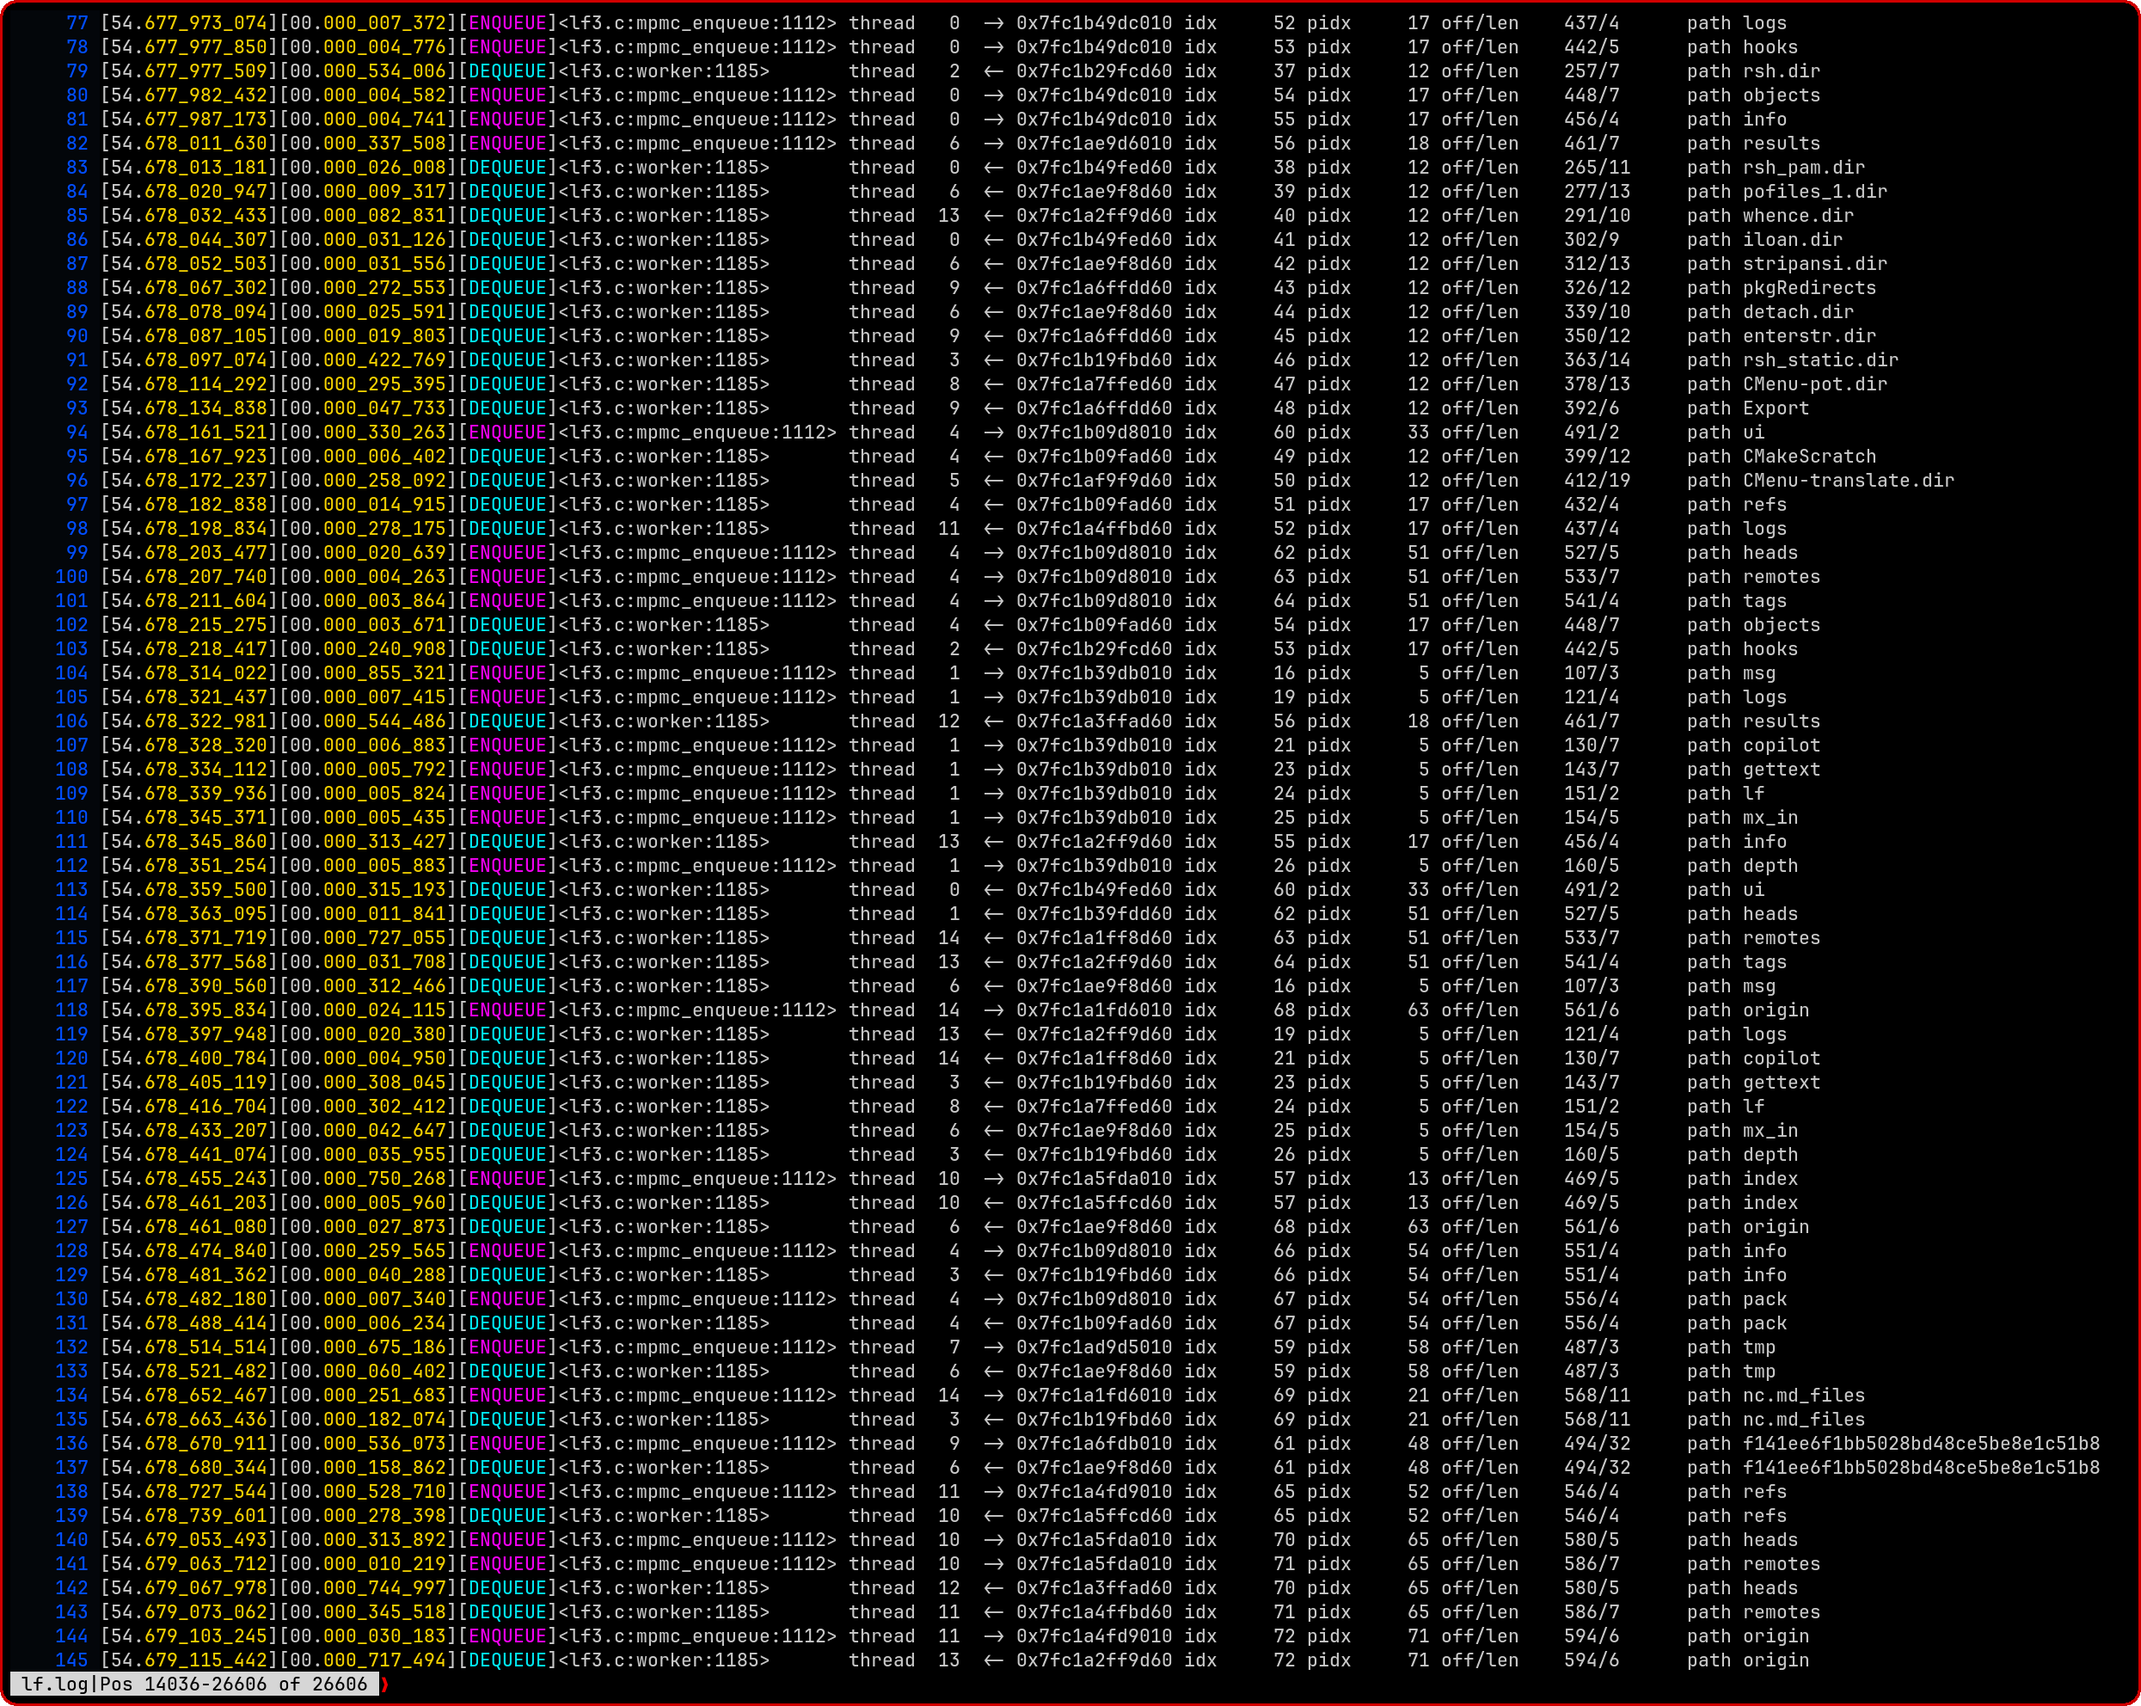
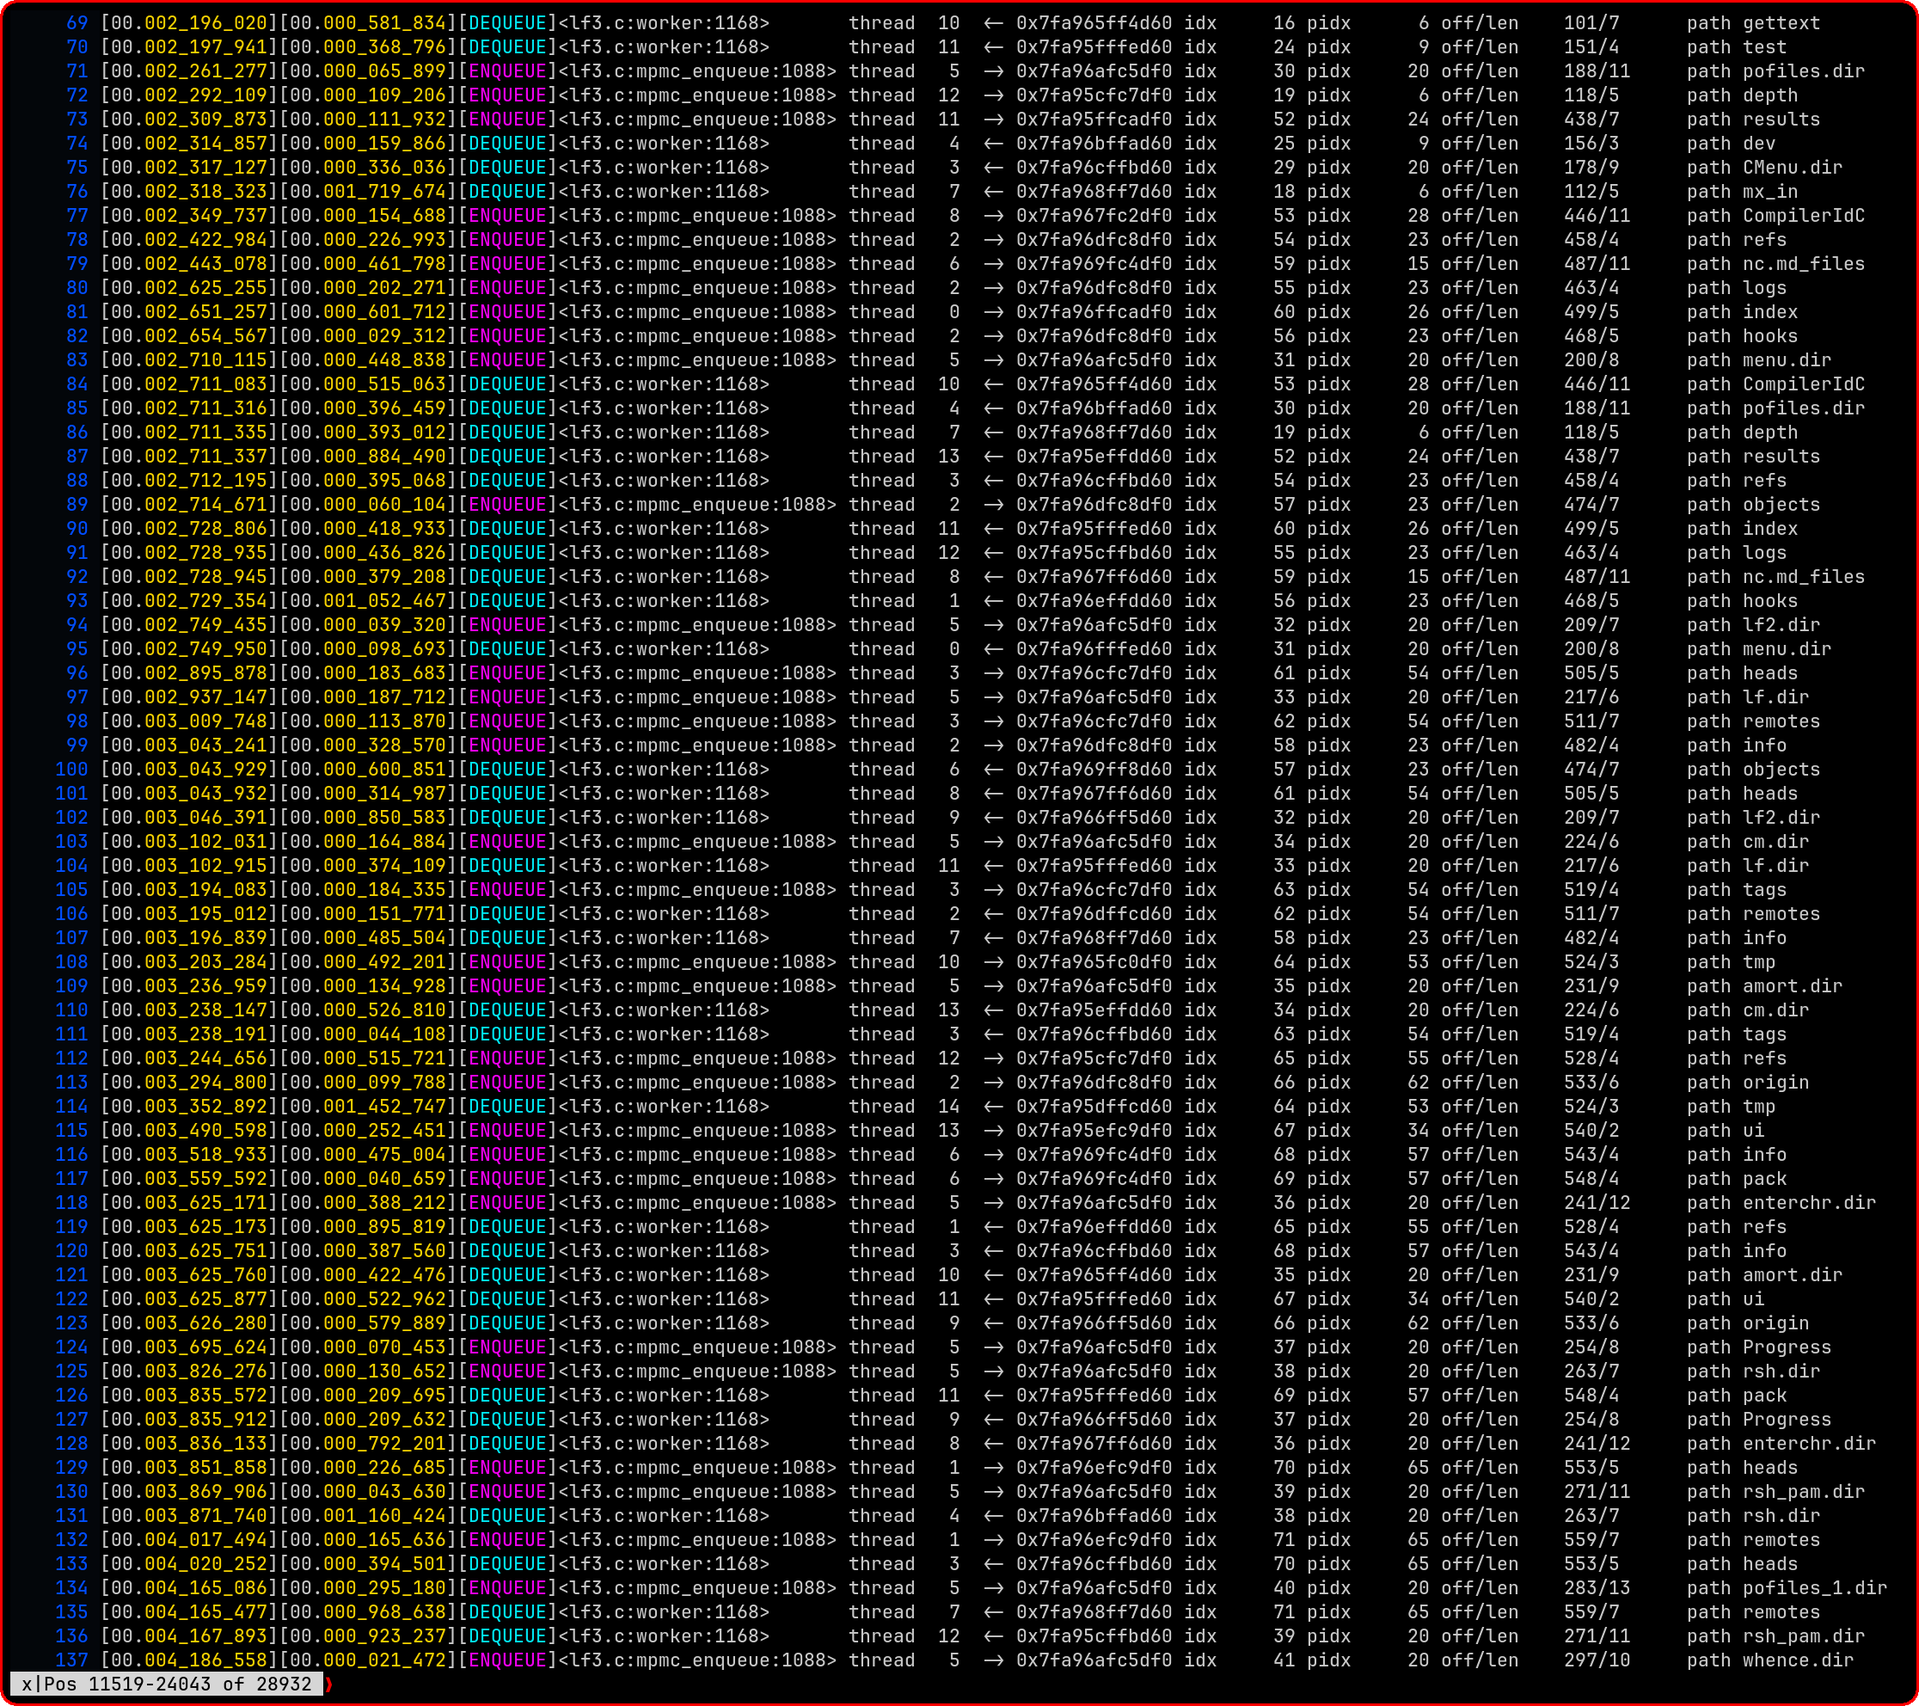
FIX: #1040 lf3: There was an issue with the consistency of timestamps in the lf3 log that resulted from sharing a context between threads. The fix was to create a new context for each thread, which resolved the timestamp inconsistency. lf3 is the candidate to replace lf prior to the 1.0 release, and

Changed region(s): [[0.0, 0.0, 1.0, 1.0]]

diff --git a/src/lf3.c b/src/lf3.c
@@ -701,14 +701,11 @@ bool init_lf(LfCtx *lf, int argc, char **argv) {
     LogCtx x_log_ctx = {
         .start_nsec = 0,
         .start_sec = 0,
-        .prev_interval_nsec = 0,
-        .prev_interval_sec = 0,
+        .p_int_nsec = 0,
+        .p_int_sec = 0,
         .record[0] = '\0',
     };
     LogCtx *log_ctx = &x_log_ctx;
-    initialize_timer(lf, &x_log_ctx);
-    if (lf->file_level_mask)
-        log_open(lf, log_ctx, 0);
     if (!lf->include_types)
         lf->include_types = 0xff;
     if (lf->include_types)
@@ -1140,22 +1137,18 @@ void *worker(void *arg) {
     char full_path[MAX_PATH_LEN];
     alignas(CACHE_LINE_SIZE) char directory_path[MAX_PATH_LEN];
     alignas(struct linux_dirent64) char dir_buf[DIR_BUF_SIZE];
-    size_t thread_id = atomic_fetch_add_explicit(&lf->thread_id, 1, memory_order_relaxed);
-    struct timespec tp;
-    clock_gettime(CLOCK_REALTIME, &tp);
-    LogCtx x_log_ctx = {
-        .thread_id = thread_id,
-        .start_nsec = tp.tv_nsec,
-        .start_sec = tp.tv_sec,
-        .prev_interval_nsec = tp.tv_nsec,
-        .prev_interval_sec = tp.tv_sec,
-        .record[0] = '\0',
-    };
+    LogCtx x_log_ctx;
     LogCtx *log_ctx = &x_log_ctx;
+    size_t thread_id = atomic_fetch_add_explicit(&lf->thread_id, 1, memory_order_relaxed);
+    log_ctx->thread_id = thread_id;
+    if (lf->log_fd == -1)
+        initialize_timer(lf, log_ctx);
+    else
+        initialize_thread_timer(lf, log_ctx);
     if ((lf->file_level_mask & ll_t[DEQUEUE].bits) ||
         (lf->disp_level_mask & ll_t[DEQUEUE].bits)) {
         char log_record[MAXLEN];
-        snprintf(log_record, MAXLEN - 1, "      thread %3lu  %s", thread_id, "worker starting");
+        snprintf(log_record, MAXLEN - 1, "      thread %3lu  %s", log_ctx->thread_id, "worker starting");
         lf_log(DEQUEUE, "%s", log_record);
     }
     while (1) {
@@ -1736,20 +1729,28 @@ static inline char *write_interval_sec(char *p, long val) {
     return p;
 }
 
+void initialize_thread_timer(LfCtx *lf, LogCtx *log_ctx) {
+    struct timespec tp;
+    clock_gettime(CLOCK_REALTIME, &tp);
+    log_ctx->start_sec = lf->start_sec;
+    log_ctx->start_nsec = lf->start_nsec;
+    log_ctx->p_int_sec = tp.tv_sec;
+    log_ctx->p_int_nsec = tp.tv_nsec;
+}
 void initialize_timer(LfCtx *lf, LogCtx *log_ctx) {
     struct timespec tp;
     clock_gettime(CLOCK_REALTIME, &tp);
     log_ctx->start_sec = tp.tv_sec;
     log_ctx->start_nsec = tp.tv_nsec;
-    log_ctx->prev_interval_sec = tp.tv_sec;
-    log_ctx->prev_interval_nsec = tp.tv_nsec;
+    log_ctx->p_int_sec = tp.tv_sec;
+    log_ctx->p_int_nsec = tp.tv_nsec;
     lf->start_sec = tp.tv_sec;
     lf->start_nsec = tp.tv_nsec;
-    lf->prev_interval_sec = tp.tv_sec;
-    lf->prev_interval_nsec = tp.tv_nsec;
+    lf->p_int_sec = tp.tv_sec;
+    lf->p_int_nsec = tp.tv_nsec;
 }
 
-void coder_timestamp(LfCtx *lf, LogCtx *log_ctx) {
+void coder_timestamp(LogCtx *log_ctx) {
     struct timespec tp;
     clock_gettime(CLOCK_REALTIME, &tp);
 
@@ -1758,17 +1759,30 @@ void coder_timestamp(LfCtx *lf, LogCtx *log_ctx) {
     long cur_ms = (cur_nsec / 1000000);
     long cur_us = (cur_nsec / 1000) % 1000;
     long cur_ns = cur_nsec % 1000;
-    long interval_sec = tp.tv_sec - log_ctx->prev_interval_sec;
-    long interval_nsec = tp.tv_nsec - log_ctx->prev_interval_nsec;
-    if (interval_nsec < 0) {
-        interval_sec -= 1;
-        interval_nsec += 1000000000L;
+
+    fprintf(stderr, "DEBUG: thread: %2ld, start_sec: %010ld, start_nsec: %09ld, tp.tv_sec: %010ld, tp.tv_nsec: %09ld, cur: %02ld.%03ld_%03ld_%03ld\n",
+            log_ctx->thread_id, log_ctx->start_sec, log_ctx->start_nsec, tp.tv_sec, tp.tv_nsec,
+            cur_sec, cur_ms, cur_us, cur_ns);
+    // Interval calculation: time since last log entry
+    long int_sec = tp.tv_sec - log_ctx->p_int_sec;
+    long int_nsec = tp.tv_nsec - log_ctx->p_int_nsec;
+    if (int_nsec < 0) {
+        int_sec -= 1;
+        int_nsec += 1000000000L;
     }
-    long int_ms = (interval_nsec / 1000000);
-    long int_us = (interval_nsec / 1000) % 1000;
-    long int_ns = interval_nsec % 1000;
-    log_ctx->prev_interval_sec = tp.tv_sec;
-    log_ctx->prev_interval_nsec = tp.tv_nsec;
+    long int_ms = (int_nsec / 1000000);
+    long int_us = (int_nsec / 1000) % 1000;
+    long int_ns = int_nsec % 1000;
+
+    fprintf(stderr, "DEBUG: thread: %2ld, p_int_sec: %010ld, p_int_nsec: %09ld, tp.tv_sec: %010ld, tp.tv_nsec: %09ld, int: %02ld.%03ld_%03ld_%03ld\n",
+            log_ctx->thread_id, log_ctx->p_int_sec, log_ctx->p_int_nsec, tp.tv_sec, tp.tv_nsec,
+            int_sec, int_ms, int_us, int_ns);
+
+    log_ctx->p_int_sec = tp.tv_sec;
+    log_ctx->p_int_nsec = tp.tv_nsec;
+
+    fprintf(stderr, "DEBUG: thread: %2ld, p_int_sec: %010ld, p_int_nsec: %09ld\n",
+            log_ctx->thread_id, log_ctx->p_int_sec, log_ctx->p_int_nsec);
     char *p = log_ctx->time_buf;
 
     // --- Block 1: Current Time Timestamp ---
@@ -1786,7 +1800,7 @@ void coder_timestamp(LfCtx *lf, LogCtx *log_ctx) {
 
     // --- Block 2: Interval Time Timestamp ---
     *p++ = '[';
-    p = write_interval_sec(p, interval_sec); // Handles arbitrary size safely
+    p = write_interval_sec(p, int_sec); // Handles arbitrary size safely
     *p++ = '.';
     WRITE_STR(p, sgr_c[YELLOW]);
     p = write_uint3d(p, int_ms);
@@ -1814,6 +1828,14 @@ void log_open(LfCtx *lf, LogCtx *log_ctx, size_t thread_id) {
         char time_s[16];
         struct timespec tp;
         clock_gettime(CLOCK_REALTIME, &tp);
+        log_ctx->start_sec = tp.tv_sec;
+        log_ctx->start_nsec = tp.tv_nsec;
+        log_ctx->p_int_sec = tp.tv_sec;
+        log_ctx->p_int_nsec = tp.tv_nsec;
+        lf->start_sec = tp.tv_sec;
+        lf->start_nsec = tp.tv_nsec;
+        lf->p_int_sec = tp.tv_sec;
+        lf->p_int_nsec = tp.tv_nsec;
         struct tm *tm = local ? localtime(&tp.tv_sec) : gmtime(&tp.tv_sec);
         strftime(time_s, sizeof(time_s), "%Y%m%dT%H%M%S", tm);
         if (local) {
@@ -1839,7 +1861,7 @@ void log_open(LfCtx *lf, LogCtx *log_ctx, size_t thread_id) {
     if (ttyname_r(STDERR_FILENO, ttyname, sizeof(ttyname)) == 0)
         strnz__cpy(log_record, ttyname, MAXLEN - 1);
     ssnprintf(log_record, MAXLEN - 1, _("Lf_Log started by user %s, thread %lu, on terminal '%s'"), cmenu_user, thread_id, ttyname);
-    lf_log(INFO, "%s:", log_record);
+    lf_log(ALL, "%s:", log_record);
     return;
 }
 
@@ -1871,7 +1893,7 @@ void log_write(const ll_e level, LfCtx *lf, LogCtx *log_ctx, const char *file, c
         iso8601_timestamp(lf, log_ctx);
         break;
     case CODER:
-        coder_timestamp(lf, log_ctx);
+        coder_timestamp(log_ctx);
         break;
     case TIMESTAMP_STYLE_COUNT:
         break;

diff --git a/src/include/lf.h b/src/include/lf.h
@@ -197,8 +197,8 @@ const char *sgr_c[] = {
 typedef struct {
     long start_nsec;
     long start_sec;
-    long prev_interval_nsec;
-    long prev_interval_sec;
+    long p_int_nsec;
+    long p_int_sec;
     size_t thread_id;
     char time_buf[MAX_TIMESTAMP_LEN];
     char record[MAX_LOG_REC_LEN];
@@ -510,8 +510,8 @@ typedef struct {
     long flags;
     long start_nsec;
     long start_sec;
-    long prev_interval_nsec;
-    long prev_interval_sec;
+    long p_int_nsec;
+    long p_int_sec;
     time_t after;
     time_t before;
     int max_depth;
@@ -549,8 +549,9 @@ typedef struct {
 // 1-CONFIG, 2- INFO, 3-ERROR, 4-DEBUG, 5-CYCLE, 6-QUEUE, 7-ONLY_ERRORS,
 // 8-COUNT_ERRORS, 9-ALL, S-SPIN_COUNT, T-STAGE
 extern void iso8601_timestamp(LfCtx *lf, LogCtx *log_ctx);
-void coder_timestamp(LfCtx *lf, LogCtx *log_ctx);
+void coder_timestamp(LogCtx *log_ctx);
 void initialize_timer(LfCtx *lf, LogCtx *log_ctx);
+void initialize_thread_timer(LfCtx *lf, LogCtx *log_ctx);
 extern void log_open(LfCtx *lf, LogCtx *log_ctx, size_t thread_id);
 ATTR_FORMAT(printf, 7, 8)
 void log_write(const ll_e level, LfCtx *lf, LogCtx *log_ctx, const char *file, const char *func, const int line, const char *fmt, ...);

diff --git a/README.md b/README.md
@@ -35,6 +35,11 @@ To say that lf is fast is understated. It is easily ten times faster than find, 
 
 ![lf3 logging](screenshots/lf_log.png)
 
+Above is a screenshot of an lf debugging log in view. Notice that it uses a "Coders Timestamp" instead of the usual ISO_8601 timestamp. The Coders Timestamp is a pair of 64-bit integers that represent the number of microseconds elapsed since the program was started as well as an interval timer to track time between log entries. It is used for high-resolution timing and logging in lf, and it provides a more precise measure of time than the standard ISO_8601 format. Most importantly, it contains meaningful information for developers who are debugging and profiling the performance of lf. The Coders Timestamp is a powerful tool for understanding the behavior of lf, and it can help developers identify performance bottlenecks and optimize their code.
+
+lf is already incredibly fast, but because a file finder is a core component of applications that deal with large numbers of files, it is reasonable that there will be developers who find ways to make it even faster. Hopefully they will make their improvements part of the lf project.
+
+lf is designed to be modular and extensible, so that it can be easily integrated into larger workflows and applications. It is also designed to be user-friendly, with a simple and intuitive interface that makes it easy to use for both novice and experienced users. We know you will be impressed with its speed, and we hope you will be just as impressed with its ease of use and flexibility. lf is a powerful tool for file discovery and filtering, and it is an essential component of the C-Menu toolkit.
 
 Report bugs to billxwaller@gmail.com.
 
